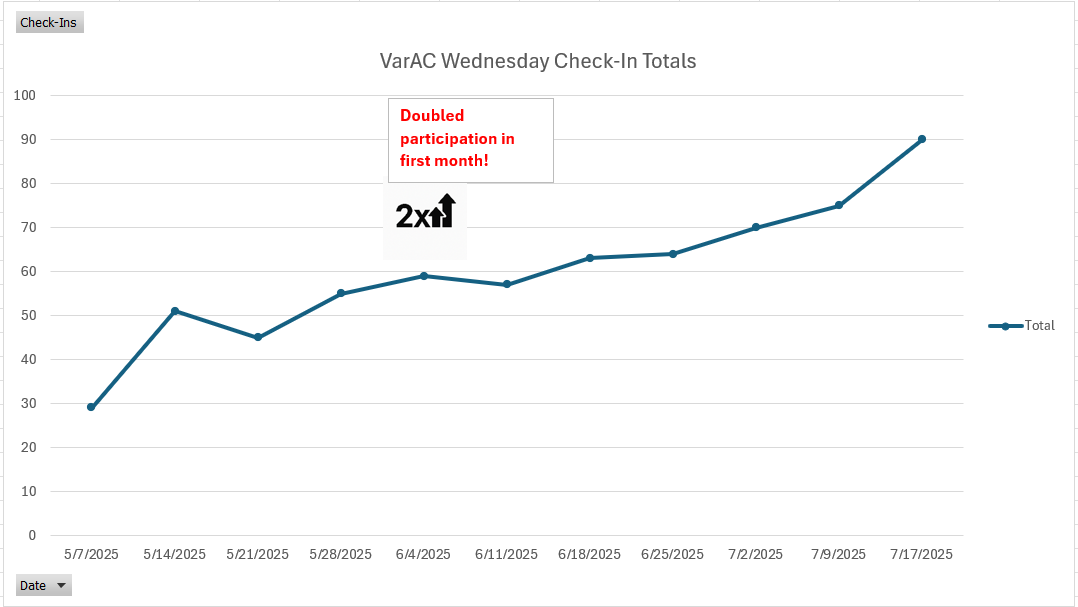
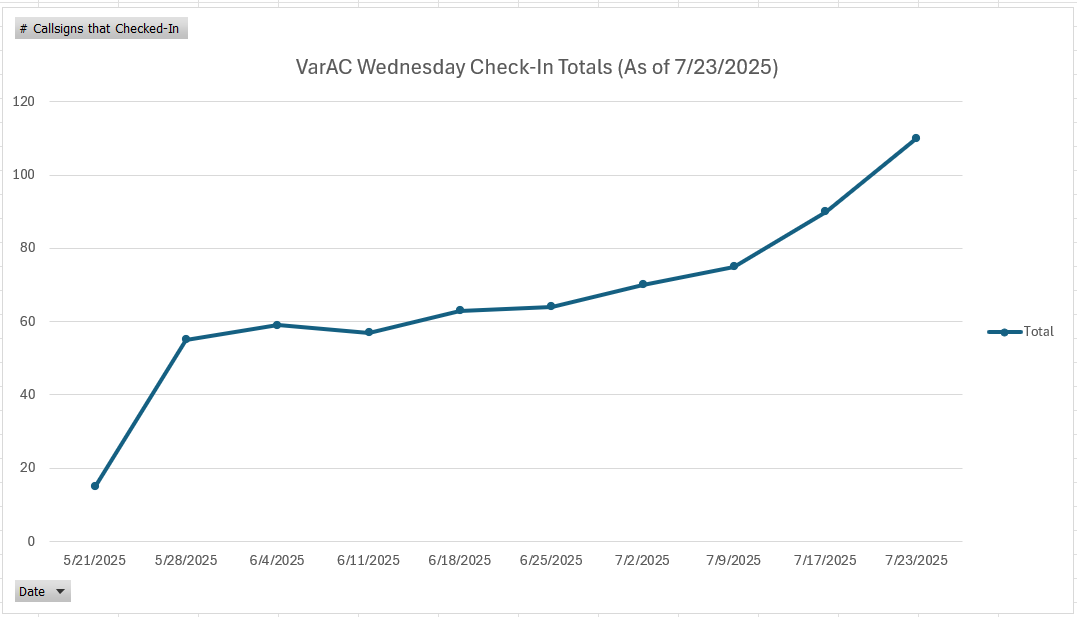
Updated results.txt, week results, total metrics, and trending image.  Added script to automate genearating information for website.

diff --git a/docs/lastWeekResults.html b/docs/lastWeekResults.html
@@ -41,39 +41,17 @@
 
     <main>
       <div id="#"></div>
-      <h2>VarAC Wednesday check-ins 7/16/2025</h2>
+      <h2>VarAC Wednesday check-ins 7/23/2025</h2>
       <p>
-      There were 90 check-ins</br>
+      There were 158 check-ins with 110 unique call signs.</br>
       </br>
-      19 Stations used the ICS-213 format.</br>
+      4Z1AC, 4Z5PE, 9Y4DZ, AA5GW, AI3KS, DF1DA, DL6ABE, DU2UXH, DU3GKT, F4LYP, F5CBP, G4LBJ, G7DPE, HB9AVK, HB9BRJ, IW2GOB, IZ3XNJ, JI1BQW, K0ION, K1AUG, K3JSJ, K6NLX, K8KHW, K8SRR, K8TJM, K9AHO, K9AJC, K9NXS, KB0US, KB3CME, KB3SPH, KB3ZKD, KC0TAF, KC3QLX, KC9AOE, KD2MI, KE4ZV, KE8PLM, KF0QGT, KF6LLC, KF8BKU, KF8BSS, KG4VCF, KI5VYM, KN4IIG, KQ4LWP, KQ4PLL, KQ4QQO, KS5X, KW9Q, M0BLH, N0DDK, N1RDN, N2NVY, N3XL, N4DDS, N5YYF, N8ENJ, N8UO, N9HEL, N9MUF, NC3Z, NJ2DX, OA4DPM, OE3FQU, OE5CAC, OE5HMR, OE5XPM, OH6CRU, ON2AD, OZ9EEE, PD2GCM, PD5JOS, SM3LDP, SM3ULU, SM5AWU, SM7DUZ, VA6DM, VA7XFM, VE3OOZ, V51PJ, W1IZZ, W2KI, W4JBB, W7RTA, W9SBE, WA7YIG, WB0VGD, WB3ILX, WB8RGE, WC2F, WD0ETG, WD4U, WH6ECG, WH7D, WJ4K, WP4QZH, WW8O, WX5OKE, WY6Y, YO3SXM, ZS1DUT, ZS1NJP, ZS2OK, ZS2OK/P, ZS3TG, ZS4DCC, ZS4P, ZS5AJA, ZS6KBS</br>
       </br>
-      Four stations did not have the correct subject line because they forgot to change the default
-      “EmComm General Message” in the ICS-213 message to the VarAC Wednesday subject line. A general pardon was issued for these stations.</br>
+      Austria(4), Belgium(1), Canada(3), Denmark(1), Finland(1), France(2), Germany(2), Israel(2), Italy(2), Japan(1), Namibia(1), Netherlands(2), Peru(1), Philippines(2), Romania(1), South Africa(9), Sweden(4), Switzerland(2), Trinidad and Tobago(2), United Kingdom(2), United States(65)</br>
       </br>
-      2E0IHV, 4Z1AC, 9G5HZ, AA5GW, AD4FM, AI3KS, DL6ABE, DU2UXH, DU3GKT, F5CBP,
-      G1AW, G7DPE, HB9AVK, HB9BRJ, HG7WDL, IZ3XNJ, JI1BQW, K0ION, K3JSJ, K8KHW,
-      K8SRR, K8TJM, K9AJC, K9NXS, KB0US, KB3SPH, KB3ZKD, KB8MRC, KC0TAF, KC3QLX,
-      KC9AOE, KE4TP, KE4ZV, KF0QGT, KI5VYM, KN4IIG, KQ4PLL, KQ4QQO, LA5XIA, LA6NCA,
-      M0BLH, M0YFO, N1GDD, N1RDN, N2NVY, N3XL, N4CLM, N5XHI, N5YYF, N8EMA, N8ENJ,
-      N8UO, N9MUF, NC3Z, ND1J, NJ2DX, OA4DPM, OH6CRU, OH6IJ, ON2AD, OZ9EEE, PD2GCM,
-      PD5JOS, PJ4SON, SM3ULU, SM5AWU, SV1UY, V51PJ, VA7XFM, VE3OOZ, W0RDR, W2KI,
-      W5TTA, W6MDA, W7EAZ, W9SBE, WC2F, WB0VGD, WB3ILX, WB8RGE, WH6ECG, WJ4K, WY6Y,
-      YO3SXM, ZS1DUT, ZS1NJP, ZS2OK, ZS2OK/P, ZS6KBS, ZS6WDL</br>
-      </br>
-      Gateways utilized:</br>
-      </br>
-      4Z1AC (3), BX4ACP (2), DX2CAR (2), EA7KOH (2), F4LYP (1), F5CBP (1), HB9ALH (1),
-      HB9AVK (4), HG7WDL (1), K3SMK (1), K6HN (2), K8TJM (1), K9AJC (1), KE4ZV (2), KG4VCF
-      (10), KG9B (2), KM4UDX (2), KQ5O (1), LA5XIA (1), M0BLH (4), N3XL (2), N4VAD (1), N5YYF
-      (2), N8EMA (1), ND1J (2), OE3FQU (3), OZ9EEE (1), PD2GCM (6), VE3OOZ (3), W2JKT (3), W5TTA (3), WD4U (4),
-      WY6Y (7), ZS1DCC (1), ZS1DUT (1), ZS2OK (1), ZS4WW (1), ZS6WDL (1)
-      </br>
-      Check-ins by country:</br>
-      </br>
-      Austria (1), Belgium (1), Bonaire (1), Canada (2), Denmark (1), Finland (3), France (1),
-      Germany (1), Ghana (1), Greece (1), Hungary (1), Israel (1), Italy (1), Japan (1), Namibia (1),
-      Netherlands (3), Norway (2), Peru (1), Philippines (2), Romania (1), South Africa (6), Sweden
-      (1), Switzerland (2), United Kingdom (4), United States (43)</br>
+
+      Gateways used:</br>
+      4Z1AC (5), 4Z5PE (4), AD4FM (1), BX4ACP (1), DGONTZ (4), DK9JY (1), DL0NOT (1), DL7HW (1), F5CBP (2), G7DPE (1), HB9AVK (5), IK1NET (13), K6HN (4), K8KHW (1), K9AJC (2), KC1PDQ (1), KC1WAY (2), KC3QLX (2), KC9AOE (1), KE4ZV (4), KF8BKU (2), KM4UDX (3), KO4CKW (1), KW9Q (4), M0BLH (2), N1RDN (1), N5YYF (1), N8UO (2), N9MUF (1), NC3Z (7), OH6CRU (5), OZ9EEE (1), PD0WAG (1), PD2GCM (1), PD5JOS (3), SM3ULU (1), VA7XFM (1), VE3OOZ (1), W1IZZ (3), W8UFO (1), WJ4K (4), WR9R (1), WY6Y (4), ZL2TNB (2), ZS1DCC (1), ZS1DUT (4), ZS2OK (1), ZS5GJK (1), ZS6WDL (1)</br>
       </p>
 
       <div class="divider"></div>
@@ -82,11 +60,9 @@
       <p align="left">
       <h2>VarAC Wednesday Total Check-ins</h2>
       </br>
-      As of July 17, 2025</br>
+      As of July 23, 2025</br>
       </br>
-
-      2E0IHV (1), 4X5OG (1), 4X6LP (2), 4Z1AC (8), 4Z5PE (9), 9G5HZ (1), AA5GW (11), AD4FM (1), AI3KS (10), AI5QK (1), DC1IK (1), DG3NAB (1), DL6ABE (1), DU1/NF0O (1), DU2UXH (7), DU2XH (1), DU3GKT (3), EA8DJR (1), F4LYP (6), F5CBP (10), G1AW (4), G3TXL (1), G4LBJ (4), G7DPE (6), G7DPF (1), HB9AVK (3), HB9BRJ (1), HF9T (3), HG7WDL (1), IZ3XNJ (3), JA1VBN (1), JG1APX (1), JI1BQW (5), K0ION (3), K0OG (3), K3CWE (1), K3JSJ (11), K4JAT (1), K4THR (1), K5KIP (3), K5WZD (1), K5YAC (1), K6HN (1), K6NLX (4), K7OLI (6), K8GNG (1), K8KHW (2), K8SRR (10), K8TJM (11), K9AHO (7), K9AJC (5), K9NXS (1), KB0US (9), KB2RSK (1), KB3SPH (1), KB3ZKD (8), KB6CIO (1), KB8MRC (5), KC0TAF (9), KC3QLX (9), KC9AOE (8), KD9RJT (1), KE2SD (1), KE4TP (2), KE4ZV (6), KE8DIE (2), KE8PLM (4), KF0MVS (1), KF0QGT (4), KF4YHC (3), KF6LLC (4), KF8BKU (2), KG4VCF (1), KG4ZIE (2), KG7CNE (1), KH7BR (1), KI5VYM (7), KJ7GI (2), KJ7ROX (2), KK6QMS (4), KM6UGZ (1), KN4IIG (3), KO4BLA (3), KO4DCD (1), KQ4LWP (2), KQ4PLL (9), KQ4QQO (3), KQ4QWH (2), KW9Q (2), LA5XIA (11), LA6NCA (3), M0AGJ (1), M0BLH (3), M0YFO (4), MM0ZFG (1), MM7BFL (1), N0OY (2), N1GDD (2), N1RDN (7), N2NVY (1), N3JXB (1), N3MEL (3), N3XL (9), N4CLM (1), N4TYS (2), N5IMC (1), N5XHI (10), N5YYF (10), N8CMB (1), N8EMA (1), N8ENJ (3), N8UO (6), N9HEL (1), N9MEC (2), N9MUF (7), NC3Z (2), ND1J (4), NJ2DX (3), OA4DPM (1), OE2FQU (1), OE3FQU (3), OE5HMR (3), OH6CRU (5), OH6IJ (1), OH6XG (1), OM8GRS (1), ON2AD (4), OZ9EEE (3), PA2HB (1), PD2GCM (6), PD5JOS (5), PE4BAS (1), PI4SRN (4), PJ4SON (1), SA2MCD (1), SM3LDP (2), SM3ULU (2), SM5AWU (2), SP1DOZ (7), SV1UY (10), SV8PMM (2), TF3AO (1), V51PJ (1), VA3MCT (1), VA7XFM (4), VE3OOZ (4), VE7PHM (1), VE7XH (1), W0RDR (7), W1IZZ (4), W1WRA (2), W2KI (1), W4BZM (1), W4RJG (1), W5TTA (9), W5URZ (1), W6KCV (1), W6MDA (1), W7EAZ (4), W7RTA (3), W9SBE (1), WA4JK (1), WB0VGD (1), WB3AU (1), WB3ILX (2), WB4AU (1), WB8RGE (1), WC2F (11), WD0ETG (5), WD4U (9), WH5ECG (1), WH6ECG (6), WH6GPZ (1), WH7D (9), WJ4K (7), WJ9H (4), WW8O (2), WX2DX (2), WY6Y (3), XE1BRX (1), YO3SXM (1), ZS1DUT (8), ZS1GPP (3), ZS1NJP (4), ZS20K (1), ZS20K/P (1), ZS2OK (8), ZS2OK/P (5), ZS3PL (1), ZS3TG (6), ZS4CGR (1), ZS4DCC (3), ZS4P (3), ZS4WW (3), ZS5LVL (1), ZS6KBS (5), ZS6LVL (2), ZS6LVL/QRP (1), ZS6MDX (1), ZS6SI (1), ZS6WDL (3)
-
+      2E0IHV (1), 4X5OG (1), 4X6LP (2), 4Z1AC (9), 4Z5PE (10), 9G5HZ (1), 9Y4DZ (1), AA5GW (12), AD4FM (1), AI3KS (11), AI5QK (1), DC1IK (1), DF1DA (1), DG3NAB (1), DL6ABE (2), DU1/NF0O (1), DU2UXH (8), DU2XH (1), DU3GKT (4), EA8DJR (1), F4LYP (7), F5CBP (11), G1AW (4), G3TXL (1), G4LBJ (5), G7DPE (7), G7DPF (1), HB9AVK (4), HB9BRJ (2), HF9T (3), HG7WDL (1), IW2GOB (1), IZ3XNJ (4), JA1VBN (1), JG1APX (1), JI1BQW (6), K0ION (4), K0OG (3), K1AUG (1), K3CWE (1), K3JSJ (12), K4JAT (1), K4THR (1), K5KIP (3), K5WZD (1), K5YAC (1), K6HN (1), K6NLX (5), K7OLI (6), K8GNG (1), K8KHW (3), K8SRR (11), K8TJM (12), K9AHO (8), K9AJC (6), K9NXS (2), KB0US (10), KB2RSK (1), KB3CME (1), KB3SPH (2), KB3ZKD (9), KB6CIO (1), KB8MRC (5), KC0TAF (10), KC3QLX (10), KC9AOE (9), KD2MI (1), KD9RJT (1), KE2SD (1), KE4TP (2), KE4ZV (7), KE8DIE (2), KE8PLM (5), KF0MVS (1), KF0QGT (5), KF4YHC (3), KF6LLC (5), KF8BKU (3), KF8BSS (1), KG4VCF (2), KG4ZIE (2), KG7CNE (1), KH7BR (1), KI5VYM (8), KJ7GI (2), KJ7ROX (2), KK6QMS (4), KM6UGZ (1), KN4IIG (4), KO4BLA (3), KO4DCD (1), KQ4LWP (3), KQ4PLL (10), KQ4QQO (4), KQ4QWH (2), KS5X (1), KW9Q (3), LA5XIA (11), LA6NCA (3), M0AGJ (1), M0BLH (4), M0YFO (4), MM0ZFG (1), MM7BFL (1), N0DDK (1), N0OY (2), N1GDD (2), N1RDN (8), N2NVY (2), N3JXB (1), N3MEL (3), N3XL (10), N4CLM (1), N4DDS (1), N4TYS (2), N5IMC (1), N5XHI (10), N5YYF (11), N8CMB (1), N8EMA (1), N8ENJ (4), N8UO (7), N9HEL (2), N9MEC (2), N9MUF (8), NC3Z (3), ND1J (4), NJ2DX (4), OA4DPM (2), OE2FQU (1), OE3FQU (4), OE5CAC (1), OE5HMR (4), OE5XPM (1), OH6CRU (6), OH6IJ (1), OH6XG (1), OM8GRS (1), ON2AD (5), OZ9EEE (4), PA2HB (1), PD2GCM (7), PD5JOS (6), PE4BAS (1), PI4SRN (4), PJ4SON (1), SA2MCD (1), SM3LDP (3), SM3ULU (3), SM5AWU (3), SM7DUZ (1), SP1DOZ (7), SV1UY (10), SV8PMM (2), TF3AO (1), V51PJ (2), VA3MCT (1), VA6DM (1), VA7XFM (5), VE3OOZ (5), VE7PHM (1), VE7XH (1), W0RDR (7), W1IZZ (5), W1WRA (2), W2KI (2), W4BZM (1), W4JBB (1), W4RJG (1), W5TTA (9), W5URZ (1), W6KCV (1), W6MDA (1), W7EAZ (4), W7RTA (4), W9SBE (2), WA4JK (1), WA7YIG (1), WB0VGD (2), WB3AU (1), WB3ILX (3), WB4AU (1), WB8RGE (2), WC2F (12), WD0ETG (6), WD4U (10), WH5ECG (1), WH6ECG (7), WH6GPZ (1), WH7D (10), WJ4K (8), WJ9H (4), WP4QZH (1), WW8O (3), WX2DX (2), WX5OKE (1), WY6Y (4), XE1BRX (1), YO3SXM (2), ZS1DUT (9), ZS1GPP (3), ZS1NJP (5), ZS20K (1), ZS20K/P (1), ZS2OK (9), ZS2OK/P (6), ZS3PL (1), ZS3TG (7), ZS4CGR (1), ZS4DCC (4), ZS4P (4), ZS4WW (3), ZS5AJA (1), ZS5LVL (1), ZS6KBS (6), ZS6LVL (2), ZS6LVL/QRP (1), ZS6MDX (1), ZS6SI (1), ZS6WDL (3)
       </br></br>
       </p>
 
